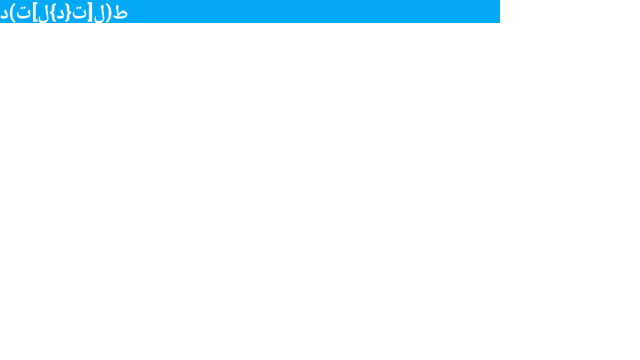
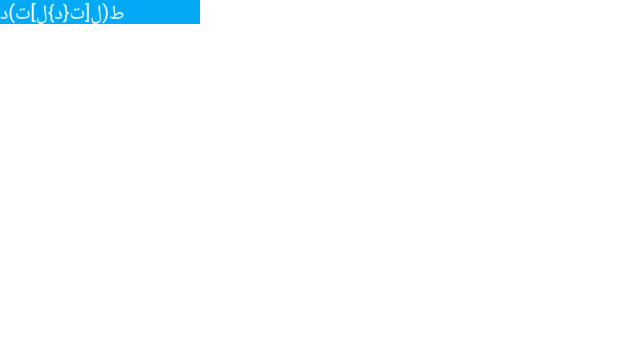
Factor in text fonts when generating font metrics
The text shaper now optionally generates all used fonts when calculating
the width of a given string of text. These fonts are factored into the
font metrics of text boxes when their 'line-height' property is
'normal'. In all other cases, only the primary font is used in
generating font metrics.

Added in layout tests for the case where 'line-height' is 'normal'
and also the case where it is set to a non-'normal' value.

This resolves b/26470532.

Changed region(s): [[0.3125, 0.0, 0.7812, 0.0611], [0.0, 0.0, 0.2188, 0.0917]]

diff --git a/cobalt/layout_tests/testdata/bidi/inline-blocks-should-have-a-neutral-direction-within-containing-paragraph-and-open-nested-paragraph.html b/cobalt/layout_tests/testdata/bidi/inline-blocks-should-have-a-neutral-direction-within-containing-paragraph-and-open-nested-paragraph.html
@@ -11,8 +11,14 @@
   <meta charset="utf-8">
   <style>
     body {
+      color: #fff;
+      font-family: Roboto, Noto Naskh Arabic;
       font-size: 30px;
-      color: #999;
+    }
+    .containing-block {
+      background-color: #03a9f4;
+      width: 200px;
+      line-height: 1.2em;
     }
     .inline-block {
       display: inline-block;
@@ -20,12 +26,14 @@
   </style>
 </head>
 <body>
-  <div><span class="inline-block">a</span>تت2</div>
-  <div>د1<span class="inline-block">a</span></div>
-  <div>د1<span class="inline-block">a</span>تت2</div>
-  <div>د<span class="inline-block">1<span>تت</span></span>تتتت</div>
-  <div>د<span class="inline-block">تت<span>1</span></span>تتتت</div>
-  <div>a<span class="inline-block">1<span>تت</span></span>b</div>
-  <div>a<span class="inline-block">تت<span>1</span></span>b</div>
+  <div class="containing-block">
+    <div><span class="inline-block">a</span>تت2</div>
+    <div>د1<span class="inline-block">a</span></div>
+    <div>د1<span class="inline-block">a</span>تت2</div>
+    <div>د<span class="inline-block">1<span>تت</span></span>تتتت</div>
+    <div>د<span class="inline-block">تت<span>1</span></span>تتتت</div>
+    <div>a<span class="inline-block">1<span>تت</span></span>b</div>
+    <div>a<span class="inline-block">تت<span>1</span></span>b</div>
+  </div>
 </body>
 </html>

diff --git a/cobalt/layout_tests/testdata/bidi/inline-container-boxes-should-continue-active-paragraph.html b/cobalt/layout_tests/testdata/bidi/inline-container-boxes-should-continue-active-paragraph.html
@@ -4,18 +4,25 @@
   <meta charset="utf-8">
   <style>
     body {
+      color: #fff;
+      font-family: Roboto, Noto Naskh Arabic;
       font-size: 30px;
-      color: #999;
+    }
+    .containing-block {
+      background-color: #03a9f4;
+      width: 500px;
     }
   </style>
 </head>
 <body>
-  <div>ط1<span>لتدلت</span>دتد</div>
-  <div>ط1<span>2لتدل3<span>تدلت4</span>دل5ل6تد</span>لتد</div>
-  <div>ط1a<span>لتد2ل<span>3تد</span>لتb4د<span>ل5ت6دcل</span>7تد8dل</span>تد</div>
-  <div>يa<span>bطا32لت</span>دcde</div>
-  <div><span>ط1لتدلنشاabطتد2cdيل</span></div>
-  <div>abط1<span>2لتالت34</span>دلتcd</div>
-  <div>a<span>b<span>12دل</span>تد3<span>4</span>cd</span></div>
+  <div class="containing-block">
+    <div>ط1<span>لتدلت</span>دتد</div>
+    <div>ط1<span>2لتدل3<span>تدلت4</span>دل5ل6تد</span>لتد</div>
+    <div>ط1a<span>لتد2ل<span>3تد</span>لتb4د<span>ل5ت6دcل</span>7تد8dل</span>تد</div>
+    <div>يa<span>bطا32لت</span>دcde</div>
+    <div><span>ط1لتدلنشاabطتد2cdيل</span></div>
+    <div>abط1<span>2لتالت34</span>دلتcd</div>
+    <div>a<span>b<span>12دل</span>تد3<span>4</span>cd</span></div>
+  </div>
 </body>
 </html>

diff --git a/cobalt/layout_tests/testdata/css-2-1/10-8-1-inline-box-with-normal-line-height-should-combine-all-used-fonts-in-font-metrics.html b/cobalt/layout_tests/testdata/css-2-1/10-8-1-inline-box-with-normal-line-height-should-combine-all-used-fonts-in-font-metrics.html
@@ -1,0 +1,34 @@
+<!DOCTYPE html>
+<!--
+ | User agent must align the glyphs in a non-replaced inline box to each
+ | other by their relevant baselines. Then, for each glyph, determine
+ | the A and D. Note that glyphs in a single element may come from
+ | different fonts and thus need not all have the same A and D.
+ |   https://www.w3.org/TR/CSS21/visudet.html#leading
+ -->
+<html>
+<head>
+  <meta charset="utf-8">
+  <style>
+    body {
+      font-family: Roboto, Noto Naskh Arabic;
+      font-size: 30px;
+    }
+    div {
+      width: 300px;
+      border: 1px solid #000000;
+    }
+    .arabic-font {
+      font-family: Noto Naskh Arabic, Roboto;
+    }
+  </style>
+</head>
+<body>
+  <div class="containing-block">
+    <div class="arabic-font">abc عبد النور - عمرى معاك نانسي عجرم -  مستنياك</div>
+    <div>abc عبد النور - عمرى معاك نانسي عجرم -  مستنياك</div>
+    <div> عبد النور - عمرى معاك </div>
+    <div>abc def ghi jkl</div>
+  </div>
+</body>
+</html>

diff --git a/cobalt/layout_tests/testdata/css-2-1/10-8-1-inline-box-with-non-normal-line-height-should-use-first-available-font-for-font-metrics.html b/cobalt/layout_tests/testdata/css-2-1/10-8-1-inline-box-with-non-normal-line-height-should-use-first-available-font-for-font-metrics.html
@@ -1,0 +1,34 @@
+<!DOCTYPE html>
+<!--
+ | While not explicitly specified in the spec, using the first
+ | available font when determining the font metrics for an inline box
+ | with a non-"normal" line-height property matches user expectations
+ | and the functionality of WebKit.
+ -->
+<html>
+<head>
+  <meta charset="utf-8">
+  <style>
+    body {
+      font-family: Roboto, Noto Naskh Arabic;
+      font-size: 30px;
+    }
+    div {
+      width: 300px;
+      border: 1px solid #000000;
+      line-height: 1.2em;
+    }
+    .arabic-font {
+      font-family: Noto Naskh Arabic, Roboto;
+    }
+  </style>
+</head>
+<body>
+  <div class="containing-block">
+    <div class="arabic-font">abc عبد النور - عمرى معاك نانسي عجرم -  مستنياك</div>
+    <div>abc عبد النور - عمرى معاك نانسي عجرم -  مستنياك</div>
+    <div> عبد النور - عمرى معاك نانسي عجرم -  مستنياك</div>
+    <div>abc def ghi jkl mno pqr stu wxyz</div>
+  </div>
+</body>
+</html>

diff --git a/cobalt/layout_tests/testdata/bidi/numbers-should-have-weak-directionality-3.html b/cobalt/layout_tests/testdata/bidi/numbers-should-have-weak-directionality-3.html
@@ -4,20 +4,28 @@
   <meta charset="utf-8">
   <style>
     body {
+      color: #fff;
+      font-family: Roboto, Noto Naskh Arabic;
       font-size: 30px;
-      color: #999;
+    }
+    .containing-block {
+      background-color: #03a9f4;
+      width: 200px;
+      line-height: 1.2em;
     }
   </style>
 </head>
 <body>
-  <div>د1د2د3د4د</div>
-  <div>د1د2aد3د4د</div>
-  <div>د1د2دa3د4د</div>
-  <div>د1دa2د3د4د</div>
-  <div>د1د2د3aد4د</div>
-  <div>د1د2دaد3د4د</div>
-  <div>د1د2aدد3د4د</div>
-  <div>د1د2ددa3د4د</div>
-  <div>د1aد2د3دb4د</div>
+  <div class="containing-block">
+    <div>د1د2د3د4د</div>
+    <div>د1د2aد3د4د</div>
+    <div>د1د2دa3د4د</div>
+    <div>د1دa2د3د4د</div>
+    <div>د1د2د3aد4د</div>
+    <div>د1د2دaد3د4د</div>
+    <div>د1د2aدد3د4د</div>
+    <div>د1د2ددa3د4د</div>
+    <div>د1aد2د3دb4د</div>
+  </div>
 </body>
 </html>

diff --git a/cobalt/layout_tests/testdata/bidi/numbers-should-have-weak-directionality-2.html b/cobalt/layout_tests/testdata/bidi/numbers-should-have-weak-directionality-2.html
@@ -4,21 +4,29 @@
   <meta charset="utf-8">
   <style>
     body {
+      color: #fff;
+      font-family: Roboto, Noto Naskh Arabic;
       font-size: 30px;
-      color: #999;
+    }
+    .containing-block {
+      background-color: #03a9f4;
+      width: 200px;
+      line-height: 1.2em;
     }
   </style>
 </head>
 <body>
-  <div>د1دد</div>
-  <div>دد1د</div>
-  <div>1د2د</div>
-  <div>د1د2</div>
-  <div>د1د2د</div>
-  <div>1د2د3</div>
-  <div>1دa2د</div>
-  <div>1دaد2</div>
-  <div>د1aد2</div>
-  <div>د1a2د</div>
+  <div class="containing-block">
+    <div>د1دد</div>
+    <div>دد1د</div>
+    <div>1د2د</div>
+    <div>د1د2</div>
+    <div>د1د2د</div>
+    <div>1د2د3</div>
+    <div>1دa2د</div>
+    <div>1دaد2</div>
+    <div>د1aد2</div>
+    <div>د1a2د</div>
+  </div>
 </body>
 </html>

diff --git a/cobalt/layout_tests/testdata/bidi/numbers-should-have-weak-directionality-1.html b/cobalt/layout_tests/testdata/bidi/numbers-should-have-weak-directionality-1.html
@@ -4,20 +4,28 @@
   <meta charset="utf-8">
   <style>
     body {
+      color: #fff;
+      font-family: Roboto, Noto Naskh Arabic;
       font-size: 30px;
-      color: #999;
+    }
+    .containing-block {
+      background-color: #03a9f4;
+      width: 200px;
+      line-height: 1.2em;
     }
   </style>
 </head>
 <body>
-  <div>1د</div>
-  <div>د1</div>
-  <div>د12</div>
-  <div>1د2</div>
-  <div>12د</div>
-  <div>1aد2</div>
-  <div>1a2د</div>
-  <div>1دb2</div>
-  <div>د1b2</div>
+  <div class="containing-block">
+    <div>1د</div>
+    <div>د1</div>
+    <div>د12</div>
+    <div>1د2</div>
+    <div>12د</div>
+    <div>1aد2</div>
+    <div>1a2د</div>
+    <div>1دb2</div>
+    <div>د1b2</div>
+  </div>
 </body>
 </html>

diff --git a/cobalt/layout_tests/testdata/css3-ui/5-2-shaped-text-should-accurately-calculate-width-before-ellipsis.html b/cobalt/layout_tests/testdata/css3-ui/5-2-shaped-text-should-accurately-calculate-width-before-ellipsis.html
@@ -25,9 +25,7 @@
   </style>
 </head>
 <body>
-  <div class="containing-block">
-    <div>سرين عبد النور - عمرى معاك نانسي عجرم -  مستنياك</div>
-    <div><span>سرين عبد النور - عمرى معاك نانسي عجرم -  مستنياك</span></div>
-  </div>
+  <div>سرين عبد النور - عمرى معاك نانسي عجرم -  مستنياك</div>
+  <div><span>سرين عبد النور - عمرى معاك نانسي عجرم -  مستنياك</span></div>
 </body>
 </html>

diff --git a/cobalt/layout_tests/testdata/bidi/nested-block-boxes-should-close-active-paragraph.html b/cobalt/layout_tests/testdata/bidi/nested-block-boxes-should-close-active-paragraph.html
@@ -9,12 +9,20 @@
   <meta charset="utf-8">
   <style>
     body {
+      color: #fff;
+      font-family: Roboto, Noto Naskh Arabic;
       font-size: 30px;
-      color: #999;
+    }
+    .containing-block {
+      background-color: #03a9f4;
+      width: 200px;
+      line-height: 1.2em;
     }
   </style>
 </head>
 <body>
-  <div>د<div>دد</div>1دددد</div>
+  <div class="containing-block">
+    <div>د<div>دد</div>1دددد</div>
+  </div>
 </body>
 </html>

diff --git a/cobalt/layout_tests/testdata/bidi/mirror-characters-should-be-reversed-in-rtl.html b/cobalt/layout_tests/testdata/bidi/mirror-characters-should-be-reversed-in-rtl.html
@@ -8,15 +8,14 @@
   <meta charset="utf-8">
   <style>
     body {
-      margin: 0px;
       color: #fff;
-      font-family: Roboto;
+      font-family: Roboto, Noto Naskh Arabic;
       font-size: 20px;
-      font-weight: bold;
     }
     .containing-block {
       background-color: #03a9f4;
-      width: 500px;
+      width: 200px;
+      line-height: 1.2em;
     }
   </style>
 </head>

diff --git a/cobalt/layout_tests/testdata/bidi/bidi-paragraphs-should-maintain-proper-ordering-when-split-across-multiple-lines.html b/cobalt/layout_tests/testdata/bidi/bidi-paragraphs-should-maintain-proper-ordering-when-split-across-multiple-lines.html
@@ -12,13 +12,13 @@
     body {
       margin: 0px;
       color: #fff;
-      font-family: Roboto;
+      font-family: Roboto, Noto Naskh Arabic;
       font-size: 20px;
-      font-weight: bold;
     }
     .containing-block {
       background-color: #03a9f4;
       width: 500px;
+      line-height: 1.2em;
     }
   </style>
 </head>

diff --git a/cobalt/layout_tests/testdata/bidi/whitespace-should-be-handled-properly-with-bidirectional-text.html b/cobalt/layout_tests/testdata/bidi/whitespace-should-be-handled-properly-with-bidirectional-text.html
@@ -9,12 +9,12 @@
   <style>
     body {
       color: #fff;
-      font-family: Roboto;
+      font-family: Roboto, Noto Naskh Arabic;
       font-size: 28px;
     }
     .containing-block {
       background-color: #03a9f4;
-      width: 500px;
+      width: 200px;
     }
   </style>
 </head>
